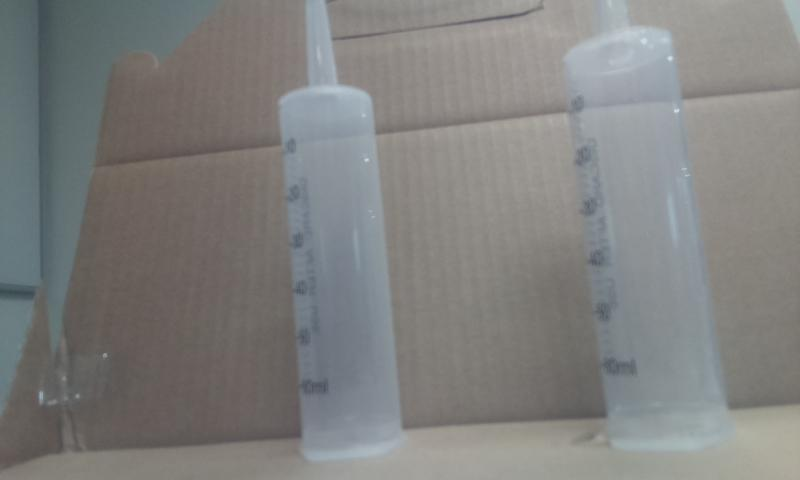
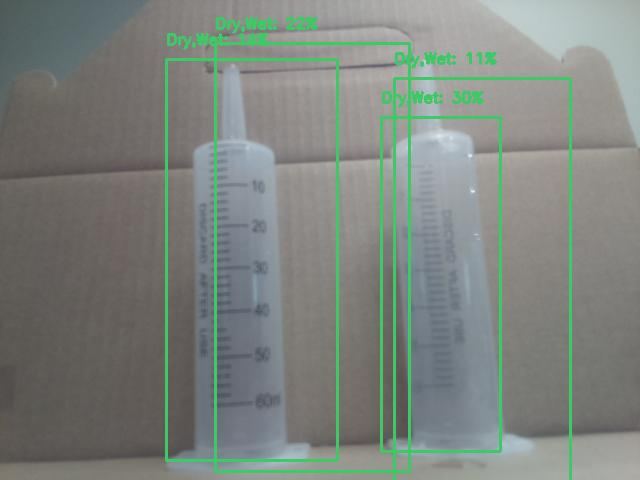
Change camera rez

diff --git a/server.py b/server.py
@@ -120,7 +120,7 @@ def dry(timer, retry):
 def checkDry(timer):
   emit("check", "Checking dryness...")
   sendToArduino(3, timer)
-  with PiCamera() as camera:
+  with PiCamera(resolution=(640, 480)) as camera:
 
       camera.start_preview()
       sleep(timer)
@@ -130,7 +130,7 @@ def checkDry(timer):
   redry = object_detection.run_odt_and_draw_results(
     './images/image.jpg',
     interpreter,
-    threshold=0.2
+    threshold=0.1
   )
 
   return redry
